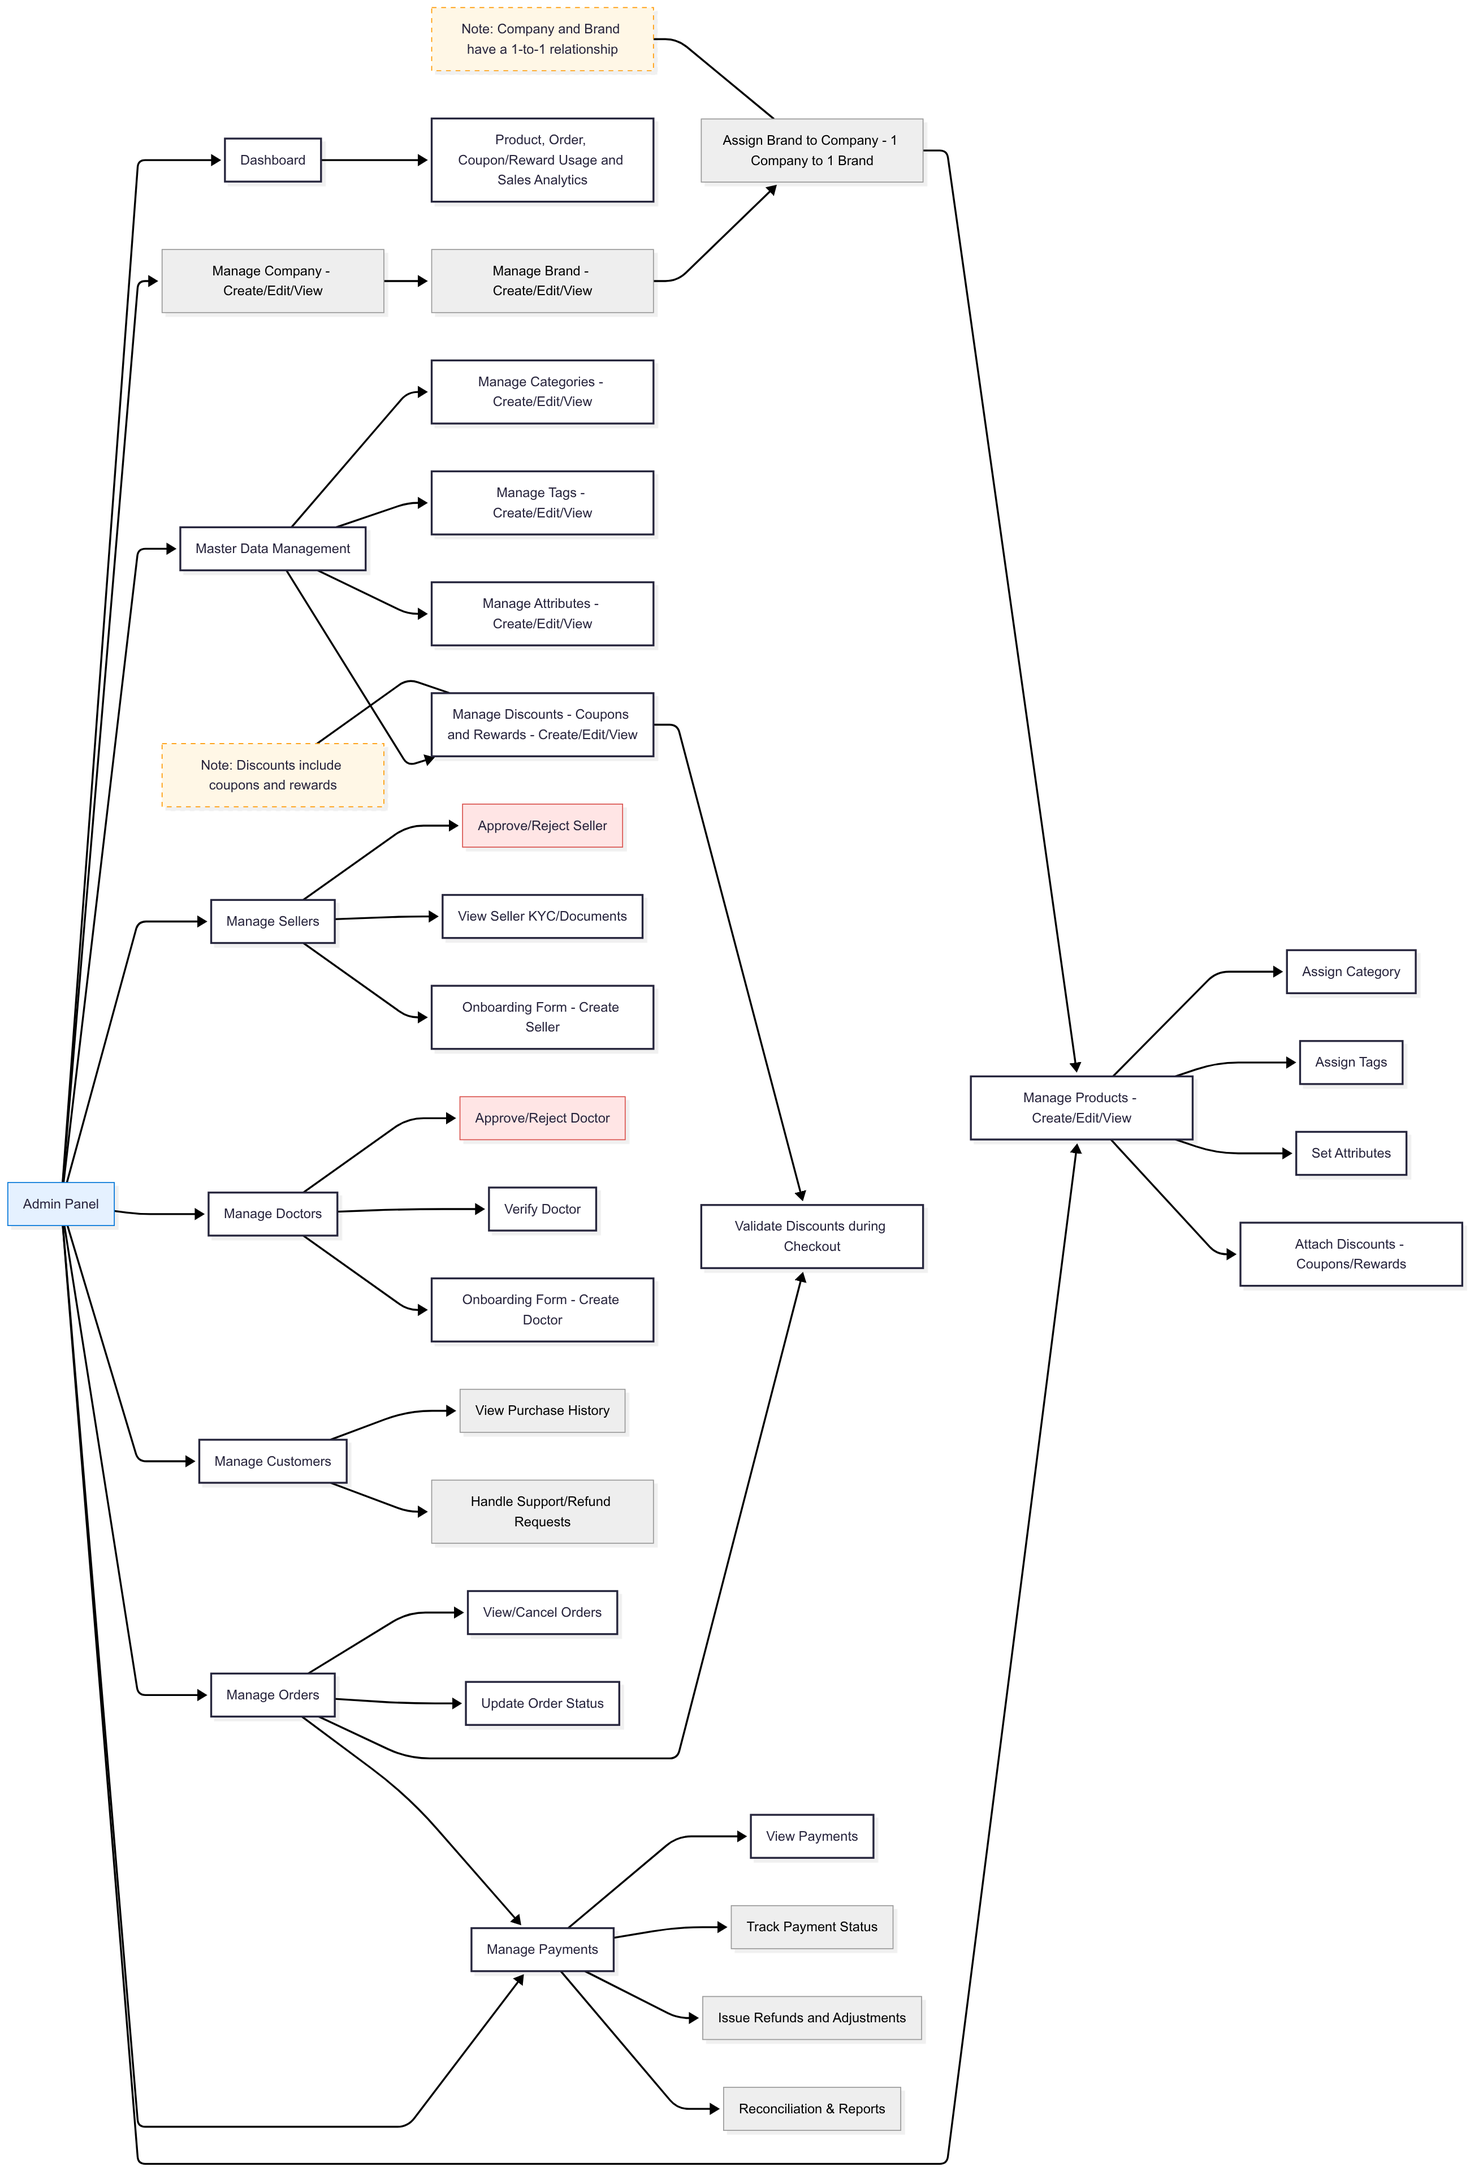
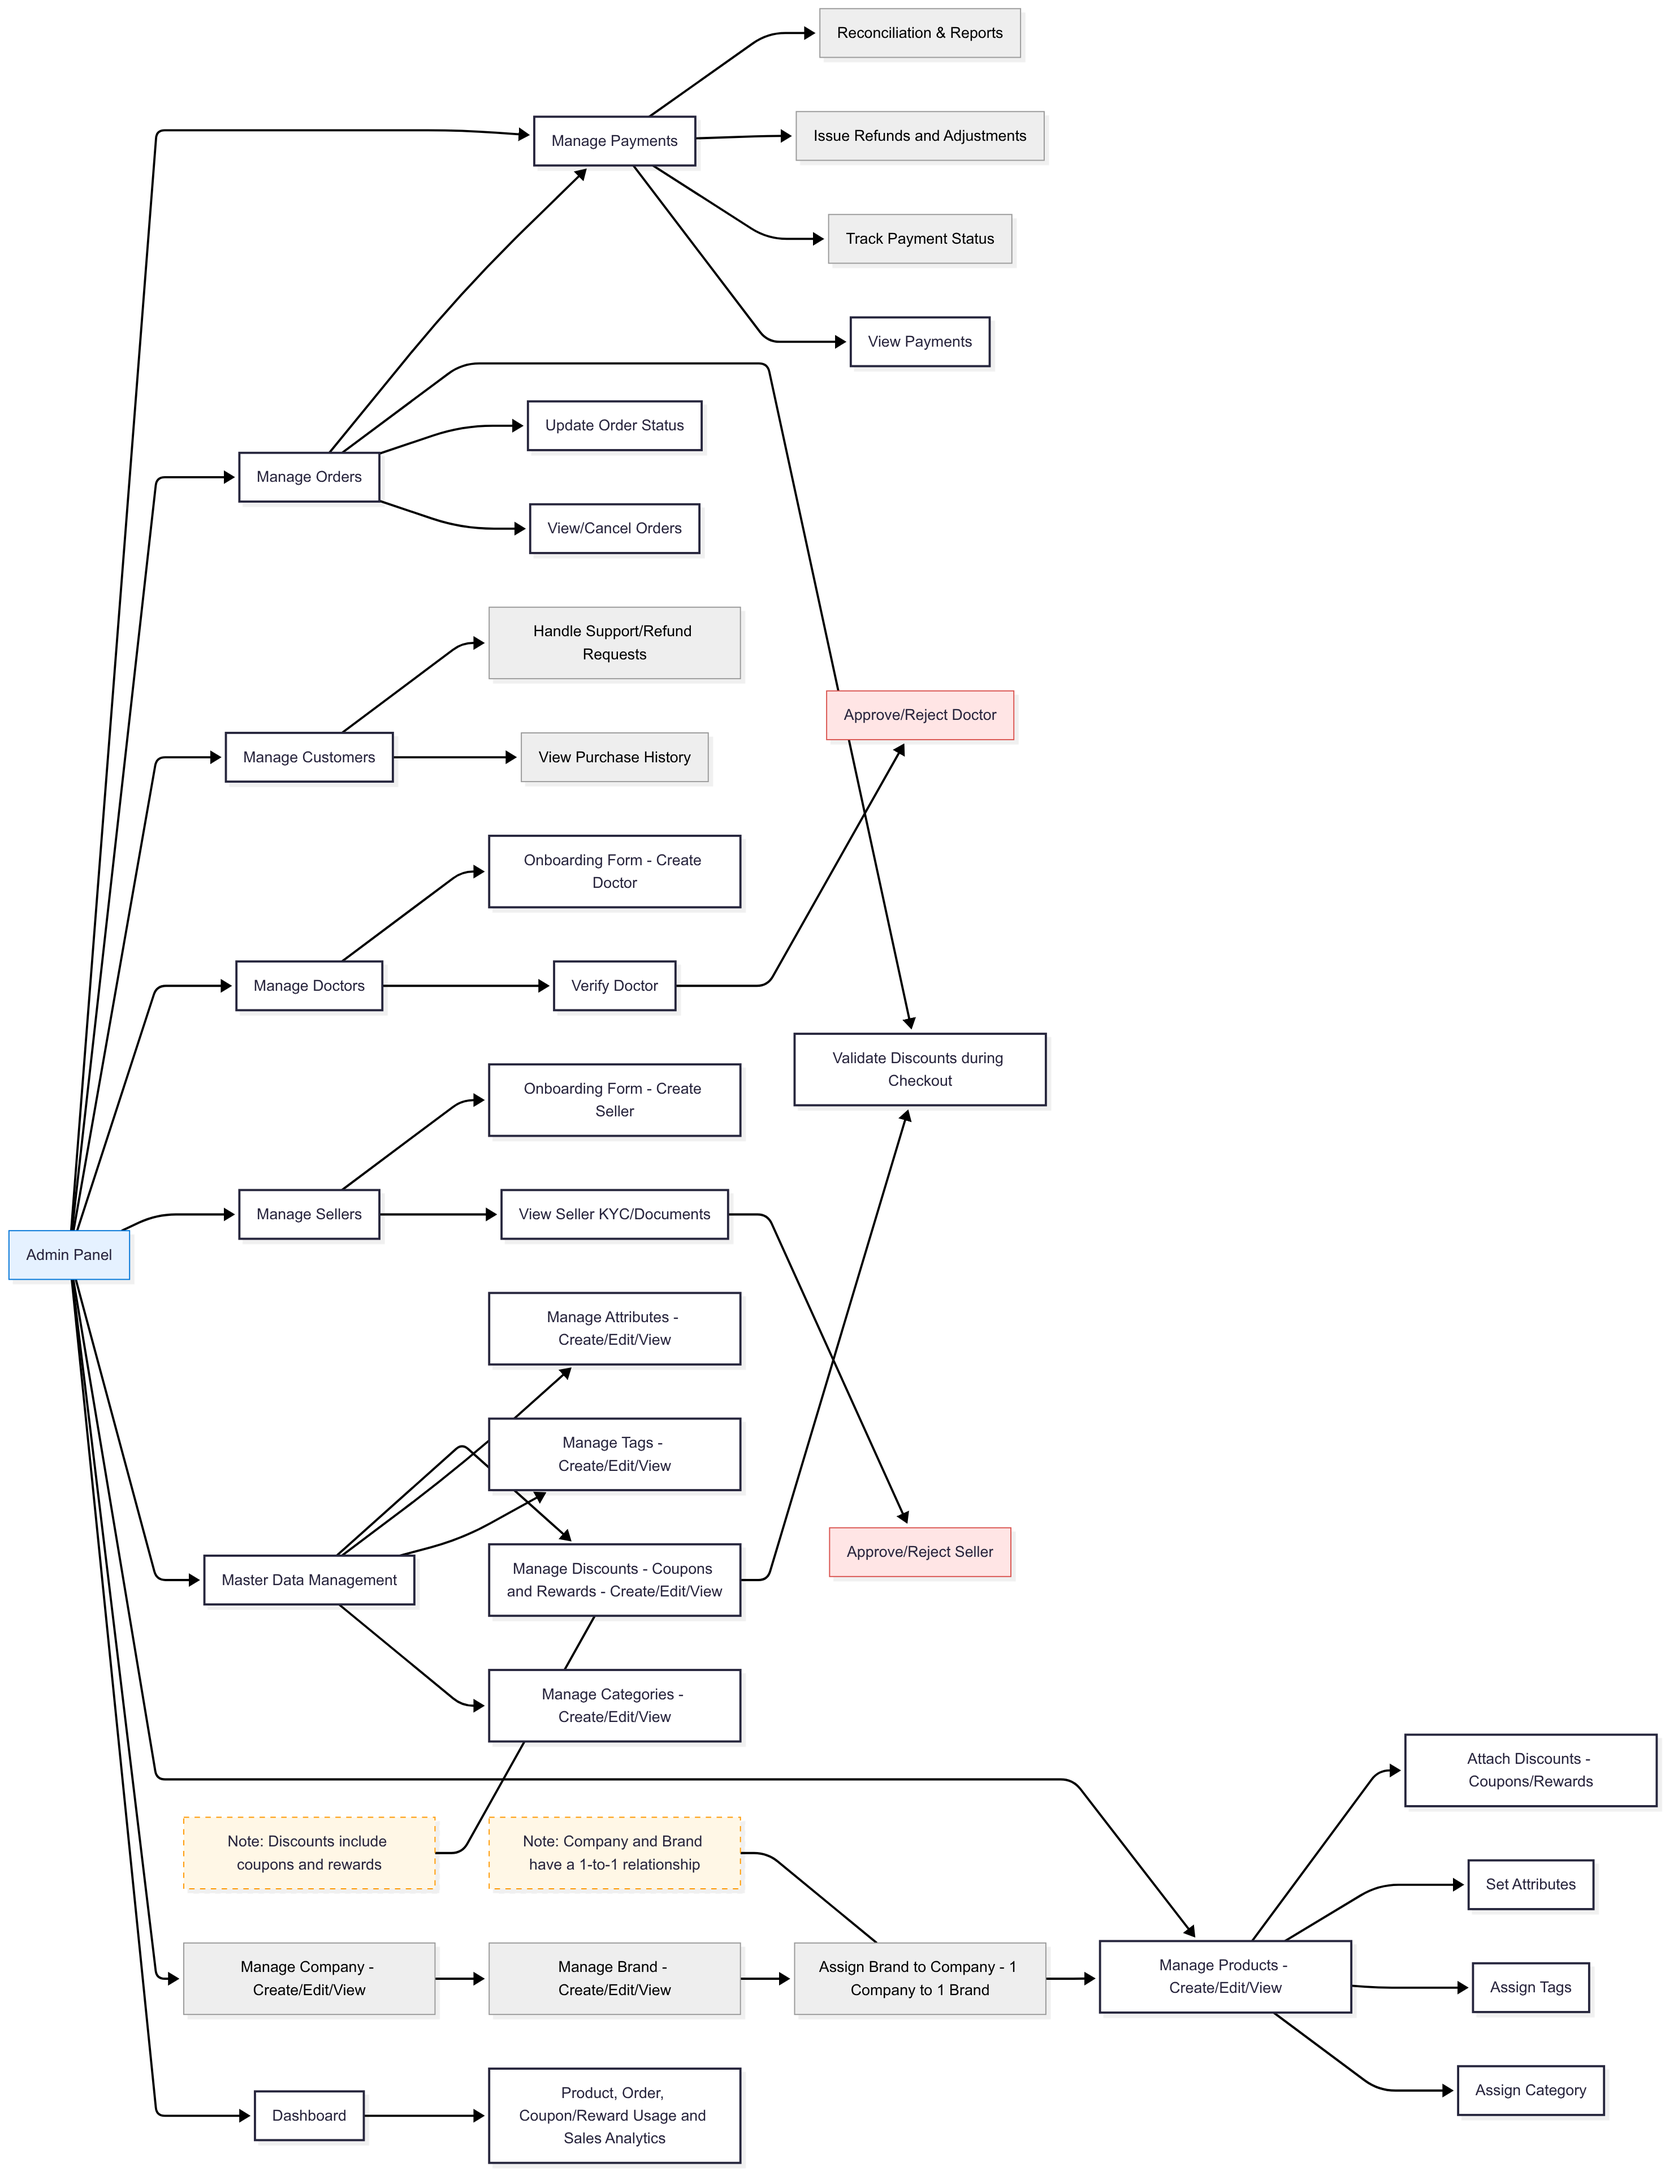
Refactor seller and doctor flow diagrams for clarity and update styles

diff --git a/current-ecom-flow/flow.md b/current-ecom-flow/flow.md
@@ -20,8 +20,8 @@ flowchart LR
     B1 --> B2["Assign Brand to Company - 1 Company to 1 Brand"]
     P0 --> P1["Assign Category"] & P2["Assign Tags"] & P3["Set Attributes"] & P4["Attach Discounts - Coupons/Rewards"]
     MD1 --> V1["Manage Categories - Create/Edit/View"] & V2["Manage Tags - Create/Edit/View"] & V3["Manage Attributes - Create/Edit/View"] & V4["Manage Discounts - Coupons and Rewards - Create/Edit/View"]
-    S1 --> S2["Approve/Reject Seller"] & S3["View Seller KYC/Documents"] & S4["Onboarding Form - Create Seller"]
-    D1 --> D2["Approve/Reject Doctor"] & D3["Verify Doctor"] & D4["Onboarding Form - Create Doctor"]
+    S1 --> S3["View Seller KYC/Documents"] & S4["Onboarding Form - Create Seller"]
+    D1 --> D3["Verify Doctor"] & D4["Onboarding Form - Create Doctor"]
     U1 --> U2["View Purchase History"] & U3["Handle Support/Refund Requests"]
     OMOD --> O1["View/Cancel Orders"] & O2["Update Order Status"] & O3["Validate Discounts during Checkout"] & PMOD
     PMOD --> PM1["View Payments"] & PM2["Track Payment Status"] & PM3["Issue Refunds and Adjustments"] & PM4["Reconciliation & Reports"]
@@ -29,6 +29,8 @@ flowchart LR
     V4 --> O3
     N1["Note: Company and Brand have a 1-to-1 relationship"] --- B2
     N2["Note: Discounts include coupons and rewards"] --- V4
+    S3 --> S2["Approve/Reject Seller"]
+    D3 --> D2["Approve/Reject Doctor"]
 
      C1:::Ash
      B1:::Ash
@@ -43,11 +45,9 @@ flowchart LR
     classDef note fill:#fff7e6,stroke:#ff9900,stroke-width:1px,stroke-dasharray:5 5
     classDef Ash stroke-width:1px, stroke-dasharray:none, stroke:#999999, fill:#EEEEEE, color:#000000
     style A fill:#e5f1ff,stroke:#0275d8,stroke-width:1px
-    style S2 fill:#ffe5e5,stroke:#d9534f,stroke-width:1px
     style D2 fill:#ffe5e5,stroke:#d9534f,stroke-width:1px
-
+    style S2 fill:#ffe5e5,stroke:#d9534f,stroke-width:1px
 ```
-
 ![alt text](<images/admin-flow.png>)
 
 
